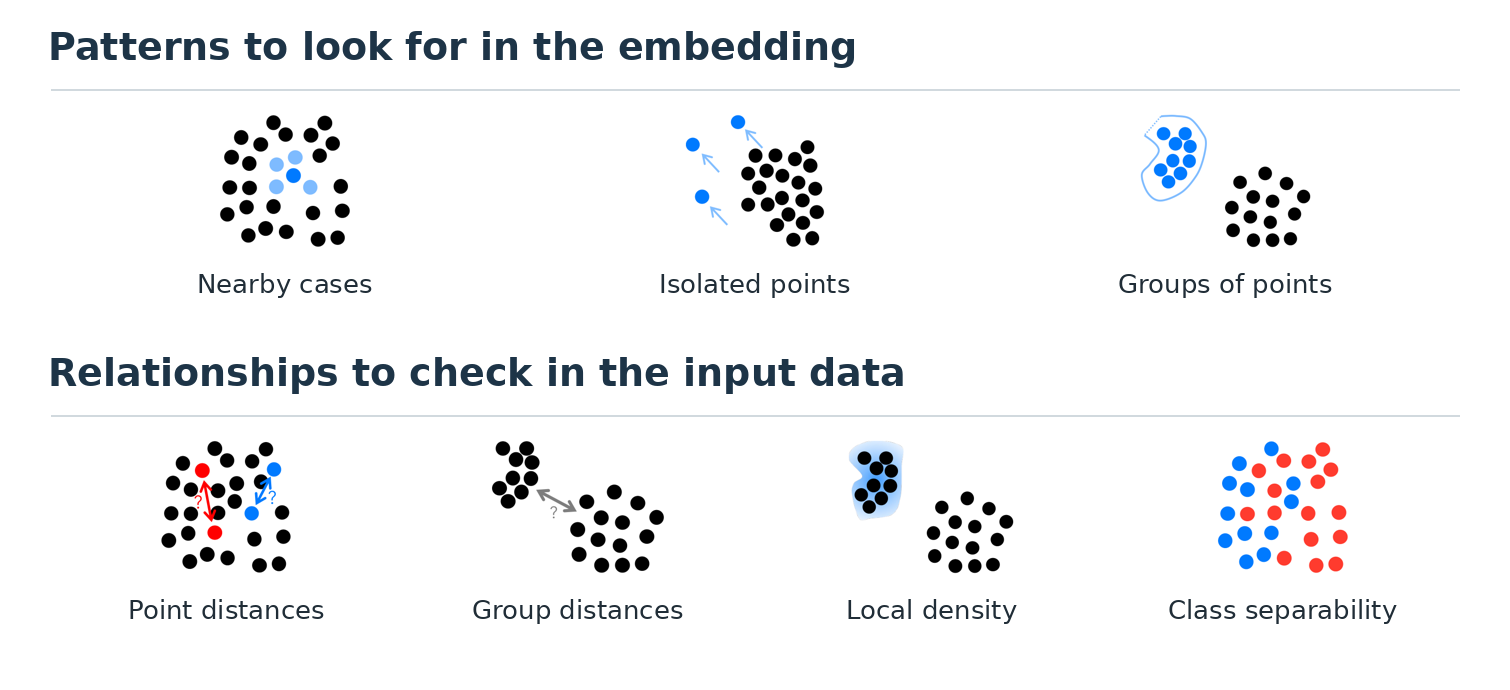
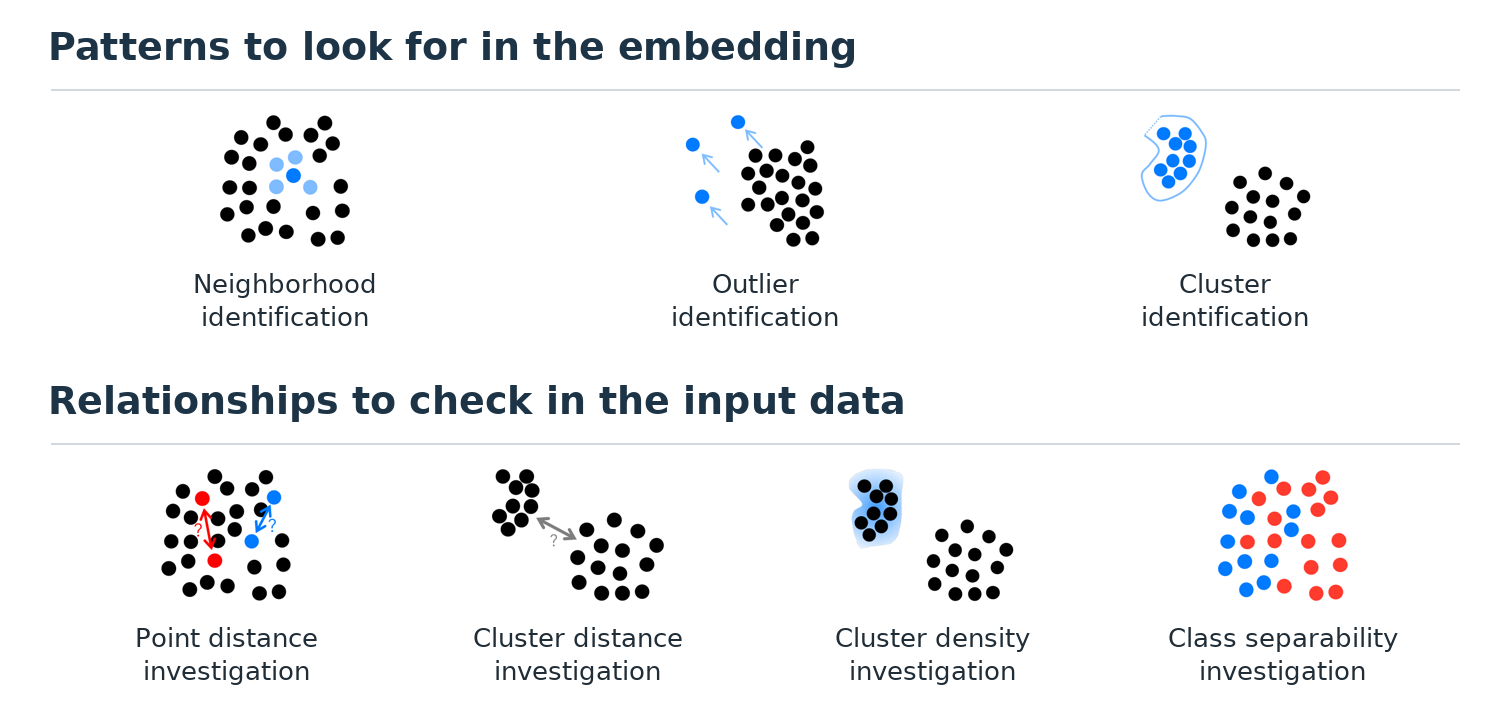
Describe the analytic tasks with the task names used in the paper
Rewrite the seven task descriptions in plain language, explain why each
task is or is not appropriate for UMAP, and relabel the task figure to
match.

diff --git a/doc/interpreting_embeddings.rst b/doc/interpreting_embeddings.rst
@@ -143,74 +143,85 @@ we plan to integrate it into this library in near future.
 What can I read from my own UMAP plot?
 --------------------------------------
 
-Pick a single penguin and you might ask which other birds resemble it.
-Step back and the space between the colored groups might make you wonder
-which species resemble each other. Start with the question
-you are trying to answer.
+Now let's detail how to interpret your own UMAP plot. The following 
+figure illustrates common tasks and questions that arise when investigating an embedding, 
+regadless on whether UMAP or another dimensionality reduction method was used. 
 
 .. figure:: images/interpretation_tasks.png
-   :alt: The first row illustrates neighbors, isolated points and groups. The second illustrates distances between points and groups, local density and class separability.
+   :alt: The first row illustrates neighborhood, outlier and cluster identification. The second illustrates point distance, cluster distance, cluster density and class separability investigation.
 
-   The first row helps you select observations to examine together.
-   The second asks how those observations relate in the input data.
+   The tasks in the first row can be appropriately answered using UMAP embeddings. 
+   However, for the tasks in the second row, UMAP embeddings may not be appropriate, and you should check the original data to answer those questions.
 
-Patterns to look for in the embedding
-~~~~~~~~~~~~~~~~~~~~~~~~~~~~~~~~~~~~~
 
-**Which cases resemble this one?** Select a penguin and inspect the
-records for several nearby dots. Do they have similar bills, similar
-body masses, or both? If the identity of a particular neighbor matters,
-list the closest observations in the original four features and check
-whether that individual appears. Finding that all 15 neighbors are
-Gentoo establishes the species of the neighbors. It leaves open whether
-the *same 15 individuals* are neighbors in the plot.
+The followings are descriptions of the tasks illustrated in the figure above, along with the reasoning on why UMAP embeddings may or may not be appropriate for answering them.
 
-**What makes this isolated point worth a look?** Suppose an orange
-Chinstrap dot sits next to a blue Adelie group. Compare its measurements
-with those of other Chinstraps. One feature might be unusual, or a rare
-combination might be made up of individually common values. If you find
-many similar Chinstraps in the input, describe the point as isolated
-in this view. Calling it an outlier in the data would require further
-evidence.
+Patterns that can be faithfully read from the UMAP embedding
+~~~~~~~~~~~~~~~~~~~~~~~~~~~~~~~~~~~~~~~~~~~~~~~~~~~~~~~~~~~~
 
-**What do the points in this group share?** Select several points
-from the middle and several from the edge of an island. Does the common
-feature you found in the middle extend to the edge? Compare observations
-on opposite sides of a visible gap. If many are neighbors in the input,
-a continuous change may have appeared as a split. Counting the islands
-would then give a misleading count of groups.
+**Neighborhood identification.** This task finds the data points that
+are similar to a given point by looking at the points right next to it
+in the embedding. UMAP is built to keep points that are neighbors in the
+input data close together in the embedding. Points that sit next to each
+other in the plot are therefore usually similar in the original data
+too. This is exactly what UMAP optimizes, so you can trust the plot for
+this task.
 
-Relationships to check in the input data
-~~~~~~~~~~~~~~~~~~~~~~~~~~~~~~~~~~~~~~~~
+**Outlier identification.** This task finds outliers, that is, points
+that do not belong to any cluster. UMAP places neighbors close together
+and keeps non-neighbors apart, so a point that is not a neighbor of the
+points in a cluster ends up clearly separated from that cluster. Points
+that sit apart from the clusters in the plot are therefore good
+candidates for outliers.
 
-**How different are two observations?** Suppose the line from A to B
-looks twice as long as the line from A to C. To check the ordering or
-the ratio, calculate both distances using the same input features,
-scaling and metric. Then inspect individual features if you want to
-explain the difference. Check how much bill length and body mass each contributed.
+**Cluster identification.** This task finds clusters, that is, sets of
+points that belong together. For example, you may count the clusters or
+select one of them to look at it in detail. Points in the same cluster
+are neighbors of one another, and UMAP keeps neighbors close and
+non-neighbors apart. A cluster in the input data therefore shows up as a
+clearly visible cluster in the embedding. You can trust the plot for
+finding clusters and for seeing which points belong to the same cluster.
 
-**Which groups are most similar?** In the penguin example the question
-concerned the *average* member of each species, so we compared their
-centroids in the four measurements. Two groups can have nearby centroids
-even when individual members differ widely. If you care how different
-a typical cross-group pair is, take one observation from each group and
-examine the distribution of distances across such pairs.
+Patterns that require checking in the input data
+~~~~~~~~~~~~~~~~~~~~~~~~~~~~~~~~~~~~~~~~~~~~~~~~
 
-**Which group is denser?** Recall how the small yellow group spread out
-in UMAP. To compare local crowding in your own data, find the distance
-from each observation to its tenth nearest other observation in the
-input. With the same features, metric and neighborhood size, a smaller
-radius means more observations fit nearby. If you want to know which
-group contains more observations, count the records. A large sample and
-a tightly packed neighborhood answer different questions.
+**Point distance investigation.** This task reads the distance between
+two points in the embedding as a measure of how different they are, for
+example to decide whether A is closer to B than to C. UMAP only tries to
+keep neighbors close. Points that are not neighbors are simply pushed
+apart, and UMAP does not control by how much. The distance between two
+far-apart points in the plot can therefore be much larger or smaller
+than their real distance. To compare distances, compute them in the
+input data.
 
-**How well do known classes separate?** Select points where two colors
-meet and inspect whether their input-space neighbors have mixed labels
-too. In the penguin example, labels were added after fitting. If labels
-were used to fit a :doc:`supervised embedding <supervised>`, their
-separation in the plot also reflects that supervision. If the question
-is whether you can predict the species of a new bird, split the data
-before fitting the pipeline and evaluate predictions on held-out birds.
+**Cluster distance investigation.** This task reads the distance between
+clusters in the embedding as a measure of how similar they are, for
+example to decide which of two clusters is closer to a third one. Points
+in different clusters are mostly not neighbors, so the data do not
+decide the size of the gap between clusters. The gaps and the placement
+of the clusters can also change with the random seed and the parameters.
+To compare clusters, measure the distance between them in the input
+data, for example between the cluster means.
+
+**Cluster density investigation.** This task compares how tightly packed
+different clusters are, to see how much the points within each cluster
+vary. UMAP looks only at the neighbors of each point and rescales
+distances according to how far away those neighbors are. As a result,
+tight clusters and loose clusters end up looking about equally crowded.
+A cluster that looks compact in the plot may be spread out in the input
+data, and the reverse can also happen. Please check densities in
+the input data, for example with the distance from each point to its
+k-th nearest neighbor. You can also use densMAP, which is designed to
+keep this information.
+
+**Class separability investigation.** This task looks at how clearly
+labeled classes, shown as colors, are separated from each other in the
+embedding. The plot does show whether two classes are mixed with each
+other. However, UMAP pushes non-neighbors apart, so classes can look more
+cleanly separated than they really are. How far apart the colors are in
+the plot therefore does not tell you how separable the classes are. To
+measure separability directly, use the input data, for example by checking 
+how well a classifier predicts the labels of held-out points.
 
 Further reading
 ---------------
